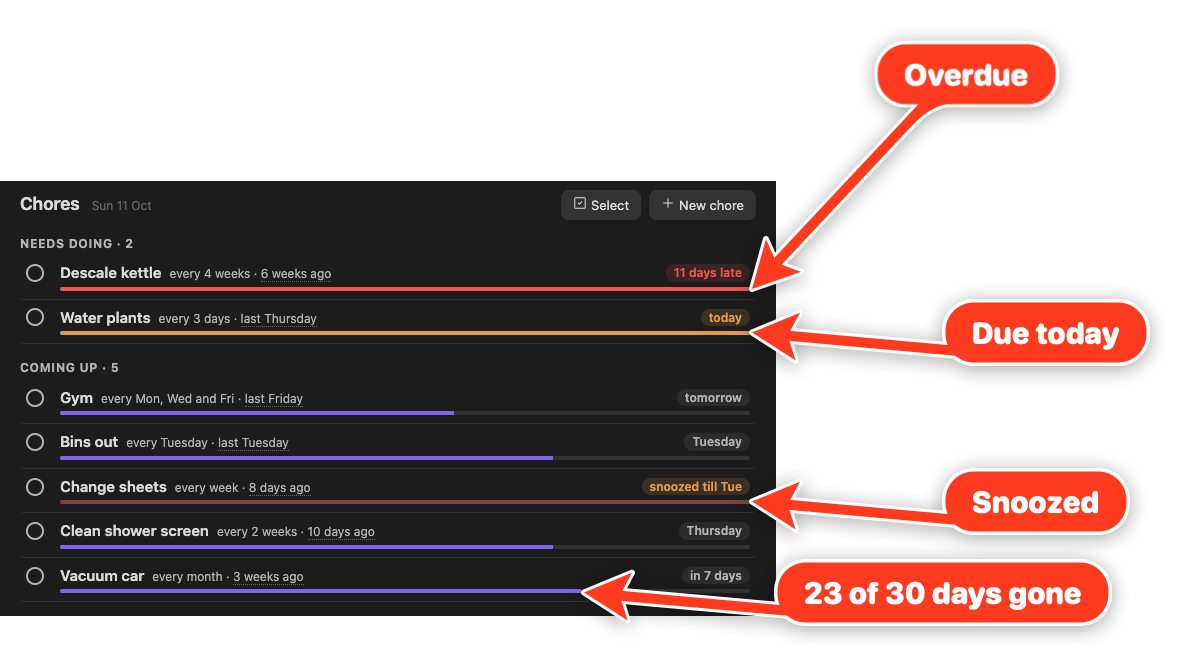
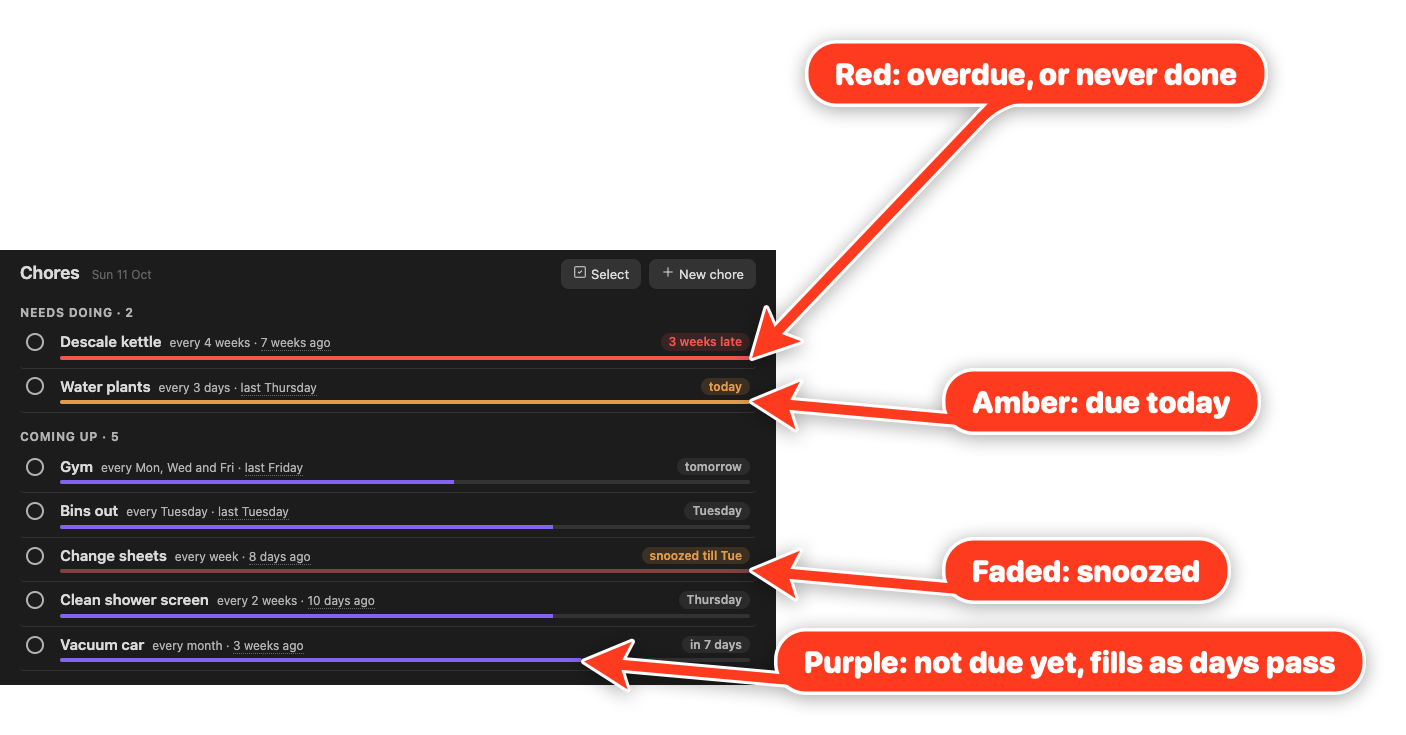
docs(readme): Explain bar colours and the history strip with screenshots
- Point the urgency bar arrows at what each colour means instead of repeating the pills
- Add an annotated history strip screenshot and describe its dots, ring, late stretch, ticks and summary line

Changed region(s): [[0.0, 0.03, 0.995, 0.961]]

diff --git a/README.md b/README.md
@@ -38,7 +38,7 @@ Chores sit in three groups. Needs doing holds the chores due today or overdue, m
 
 ### The urgency bar
 
-![The urgency bar under each chore: red when overdue, amber when due today, faded when snoozed, and part full while the interval runs](docs/images/urgency-bar.webp)
+![The urgency bar's colours: red for overdue or never done, amber for due today, faded for snoozed, and purple for not due yet, filling as the days pass](docs/images/urgency-bar.webp)
 
 The bar under each chore fills up as the chore comes due. It's empty on the day you do the chore and full once the interval has passed. Its fill is the chore's urgency, capped at full:
 
@@ -63,7 +63,13 @@ Gym on Monday, Wednesday and Friday has an average gap of $7 / 3 \approx 2.33$ d
 
 ### History
 
-Select a row to expand its history strip. It shows each completion as a dot, skips as hollow dots, the due date as a ring and any late stretch shaded, with a line underneath comparing how often you do it with the interval you set (for example, 'usually every 30 days (set to 28)'). Hover a dot for its date; select it to remove an entry logged by mistake.
+Select a row to expand its history strip, which covers about the last six intervals (or three weeks for a chore on several days a week).
+
+![A chore's history strip: done dots, a hollow skipped dot, the due date ring, the late stretch up to today, and the summary line underneath](docs/images/history-strip.webp)
+
+Each completion is a dot and each skip a hollow dot. The ring marks the due date, amber until it passes and red after, with the late stretch shaded up to today's dotted line. The faint ticks mark each interval, counted back from the due date, so a dot close to its tick was done on time. For a chore on set days, a missed day shows as a dashed red circle.
+
+The line underneath compares how often you do the chore with the interval you set (for example, 'usually every 29 days (set to 28)'). Hover a dot for its date; select it to remove an entry logged by mistake.
 
 ### Row menu
 
